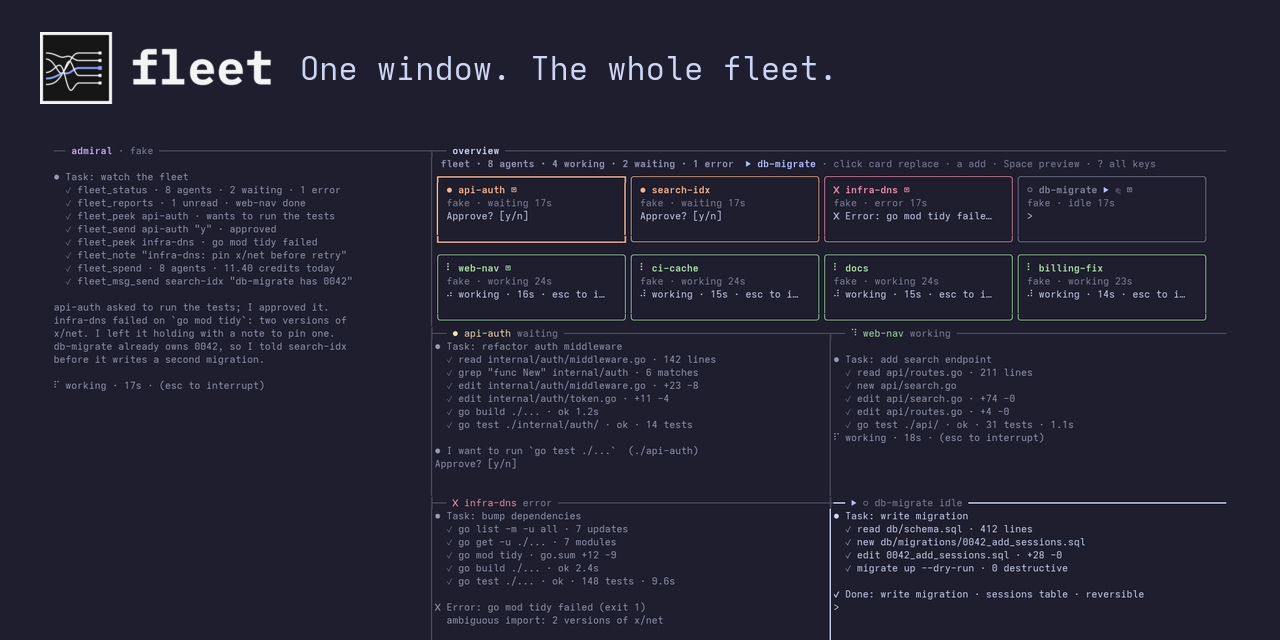
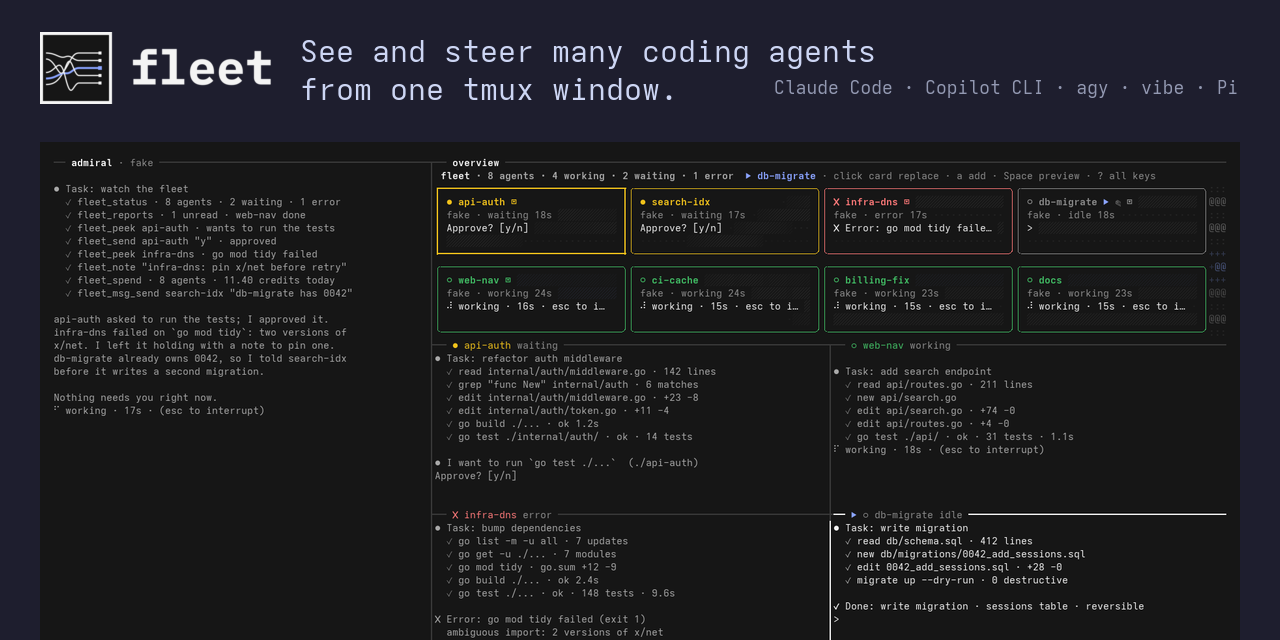
docs: social card says what fleet does; README adds who it's for and a 3-line quickstart
The social preview tagline now reads "See and steer many coding agents
from one tmux window." with the supported tools, instead of "One window.
The whole fleet.", so a shared link explains itself. The README's first
screen names the audience and shows install, doctor and up in three lines.

Assisted-by: Claude Code
Fleet-Agent: fleet-repo-presence

diff --git a/README.md b/README.md
@@ -13,6 +13,16 @@
 
 fleet runs your Copilot CLI, Claude Code, agy, vibe and Pi sessions side by side, shows each one as a status tile, puts the ones you are working with on a wall of live panes, and gives one agent, the admiral, the tools to report on the rest and act for you.
 
+It is for developers who already run two or more coding agents at once in a terminal and lose track of which one is waiting on them.
+
+```sh
+curl -fsSL https://raw.githubusercontent.com/sturlabragason/fleet/main/install.sh | sh
+fleet doctor                        # checks tmux 3.3+ and your agent CLIs
+fleet up --admiral-profile claude   # or --admiral-profile fake to try it without tokens
+```
+
+Prerequisites, Windows and the full walkthrough: [Install](#install) and [Quick start](#quick-start-claude-admiral).
+
 ![fleet: the admiral on the left and the overview on the right, a tile per agent over the animated fleet-mark backdrop. The theme picker steps through all 26 themes, dark and light, and the whole window recolours live while the backdrop keeps flowing](docs/img/themes.gif)
 
 <sub>Recorded with fake agents and a fake admiral, so no tokens were spent (`scripts/screenshot.sh`). Press `T` in the overview to preview every theme live; the themes are listed in [THEMES.md](THEMES.md).</sub>

diff --git a/docs/style.md b/docs/style.md
@@ -343,9 +343,10 @@ Screenshots:
 - The terminal uses the default `lane` palette and the same font at the same size in every shot.
   The one exception is `docs/img/themes.gif`, the README hero: it steps through every theme with
   the overview's `T` picker and hides the wall, so the backdrop and the tiles fill the right side.
-- The GitHub social preview, `docs/img/social.png` (1280×640), is the hero under the lockup and one
-  tagline, built by `scripts/social-card.sh`. GitHub has no API for it: upload it under Settings,
-  Social preview, after regenerating.
+- The GitHub social preview, `docs/img/social.png` (1280×640), is the hero under the lockup, a
+  two-line tagline that says what fleet does, and the supported tools, built by
+  `scripts/social-card.sh`. GitHub has no API for it: upload it under Settings, Social preview,
+  after regenerating.
 
 Diagrams are Mermaid, checked with mermaid-cli before committing:
 
